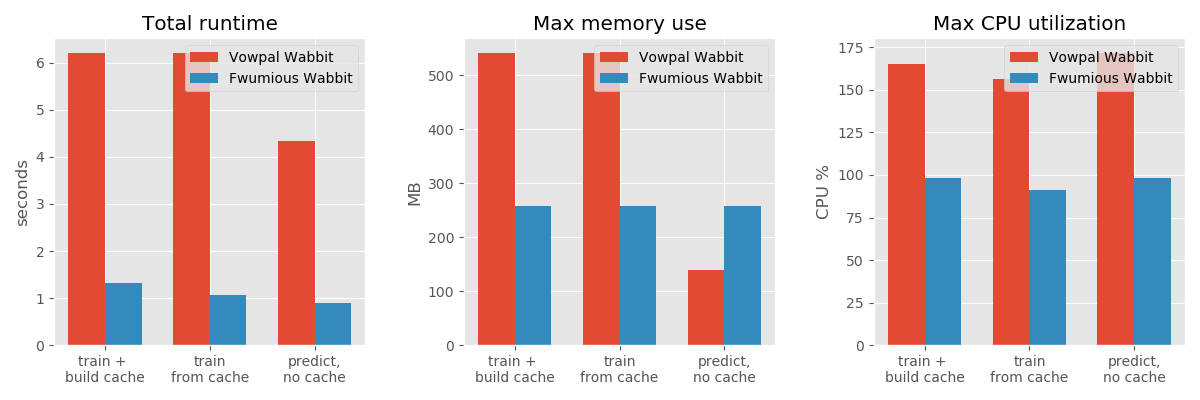
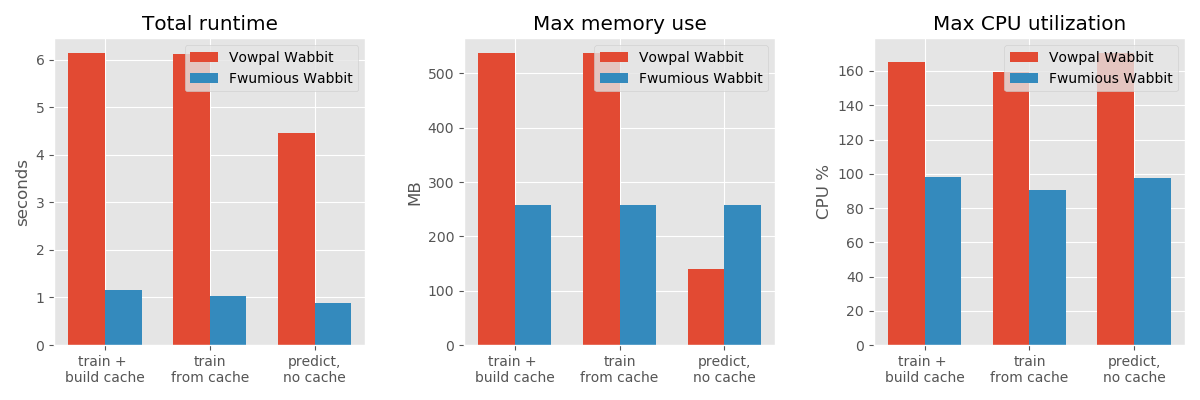
Fixes

diff --git a/benchmark/benchmark.py b/benchmark/benchmark.py
@@ -320,7 +320,7 @@ if __name__ == "__main__":
                 fw_cpu_values.append(fw_predict_no_cache_benchmark_means[2])
 
 
-        rprint("""
+        rprint(f"""
 ## Model
 We train a logistic regression model, applying online learning one example at a time (no batches), 
 using '--adaptive' flag for adaptive learning rates (AdaGrad variant).
@@ -345,11 +345,11 @@ loss values for the test set:
         if action in ["predict", "train+predict", "all"]:
             rprint("```")
             if benchmark_vw:
-                rprint(f"Vowpal Wabbit predictions loss: {vw_model_loss:.4f}\n")
+                rprint(f"Vowpal Wabbit predictions loss: {vw_model_loss:.4f}")
                 print(f"Vowpal Wabbit predictions loss: {vw_model_loss:.4f}")
 
             if benchmark_fw:
-                rprint(f"Fwumious Wabbit predictions loss: {fw_model_loss:.4f}\n")
+                rprint(f"Fwumious Wabbit predictions loss: {fw_model_loss:.4f}")
                 print(f"Fwumious Wabbit predictions loss: {fw_model_loss:.4f}")
 
             rprint("```")
@@ -376,9 +376,9 @@ there are {feature_variety:,} animal types, and {feature_variety:,} food types.
                 rprint("""see for example the first 5 lines from the train dataset (after some pretty-printing):\n
 label|animal|food
 ----:|------|----
-                """)
+""")
                 for _ in range(5):
-                    rprint(next(dataset))
+                    rprint(next(dataset).strip("\n"))
                 rprint("\n")
 
         if action in ["train", "predict", "train+predict", "all"]:

diff --git a/BENCHMARK.md b/BENCHMARK.md
@@ -10,25 +10,23 @@ We train a logistic regression model, applying online learning one example at a 
 using '--adaptive' flag for adaptive learning rates (AdaGrad variant).
 
 ## Results
-here are the results for {times} runs for each scenario, taking mean values:
+here are the results for 3 runs for each scenario, taking mean values:
 ![benchmark results](benchmark_results.png)
 Scenario|Runtime (seconds)|Memory (MB)|CPU %
 ----|----:|----:|----:
-vw train, no cache|6.21 | 540 | 165.13
-fw train, no cache|1.33 | 258 | 98.47
-vw train, using cache|6.21 | 541 | 156.70
-fw train, using cache|1.07 | 258 | 91.00
-vw predict, no cache|4.35 | 139 | 171.77
-fw predict, no cache|0.90 | 258 | 98.07
+vw train, no cache|6.14 | 538 | 165.20
+fw train, no cache|1.16 | 258 | 98.03
+vw train, using cache|6.11 | 537 | 159.50
+fw train, using cache|1.03 | 258 | 90.50
+vw predict, no cache|4.45 | 139 | 170.53
+fw predict, no cache|0.88 | 258 | 97.33
 
 ### Model equivalence
 loss values for the test set:
 
 ```
 Vowpal Wabbit predictions loss: 0.7804
-
 Fwumious Wabbit predictions loss: 0.7804
-
 ```
 
 
@@ -52,17 +50,12 @@ see for example the first 5 lines from the train dataset (after some pretty-prin
 
 label|animal|food
 ----:|------|----
-                
+
 -1 |A Herbivore-65 |B Meat-120 |C C8117 |D D7364 |E E7737 |F F6219 |G G3439 |H H1537 |I I7993 |J J464 |K K6386 |L L7090
-
 1 |A Carnivore-272 |B Meat-184 |C C3748 |D D9685 |E E1674 |F F5200 |G G501 |H H365 |I I416 |J J8870 |K K150 |L L6245
-
 1 |A Carnivore-135 |B Meat-227 |C C7174 |D D8123 |E E9058 |F F3818 |G G5663 |H H3782 |I I3584 |J J7530 |K K4747 |L L352
-
 -1 |A Herbivore-47 |B Meat-644 |C C4856 |D D1980 |E E5450 |F F8205 |G G6915 |H H8318 |I I3110 |J J4970 |K K4655 |L L9626
-
 -1 |A Carnivore-603 |B Plant-218 |C C565 |D D7868 |E E3977 |F F6623 |G G6788 |H H2834 |I I6014 |J J8991 |K K6139 |L L1416
-
 
 
 ### Feature engineering
@@ -89,7 +82,7 @@ or, if you just want the numbers with less dependencies run:
 ```
 Physical cores: 4
 Total cores: 8
-Current Frequency: 4138.95Mhz
+Current Frequency: 4119.00Mhz
 ```
 ### System Information
 ```
